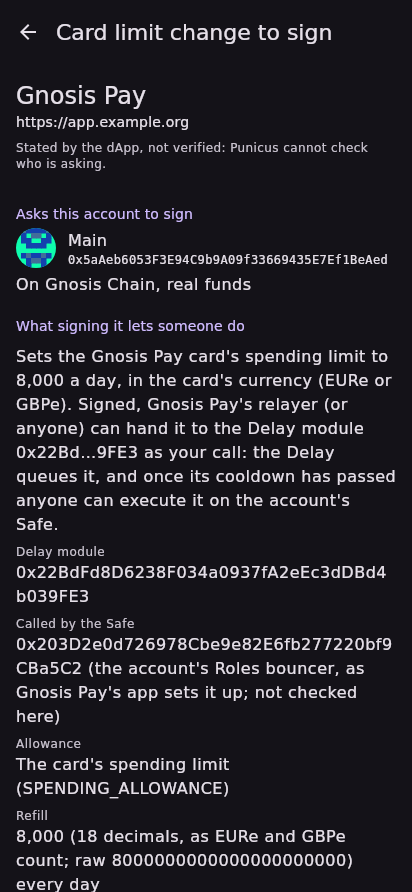
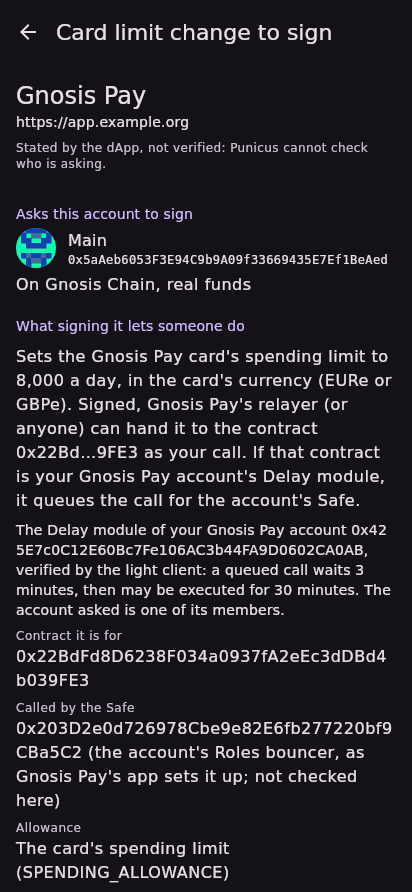
Screenshots: 1 added, 2 changed, 0 removed
Rendered by the Screenshots workflow from a125217e675adffcad88f89c9a7d9c25a4fbb8ea. Every other screen draws the same pixels.

Renderer: ubuntu26 20261122.9.1, openjdk version "21.0.13.1" 2026-11-17 LTS

Changed region(s): [[0.0291, 0.454, 0.9612, 1.0]]

diff --git a/docs/screenshots/index.html b/docs/screenshots/index.html
@@ -323,7 +323,7 @@ figcaption { font: .75rem/1.3 monospace; text-align: center; word-break: break-w
 </div>
 </section>
 <section id="dapp-request">
-<h2>dApp signing request <small>dapp-request/ · 42 states</small></h2>
+<h2>dApp signing request <small>dapp-request/ · 43 states</small></h2>
 <div class="shots">
 <figure style="width: 206px"><a href="dapp-request/sign-in.png"><img src="dapp-request/sign-in.png" loading="lazy" alt="sign-in"></a><figcaption>sign-in</figcaption></figure>
 <figure style="width: 206px"><a href="dapp-request/sign-in-dark.png"><img src="dapp-request/sign-in-dark.png" loading="lazy" alt="sign-in-dark"></a><figcaption>sign-in-dark</figcaption></figure>
@@ -354,6 +354,7 @@ figcaption { font: .75rem/1.3 monospace; text-align: center; word-break: break-w
 <figure style="width: 206px"><a href="dapp-request/per-app-linked.png"><img src="dapp-request/per-app-linked.png" loading="lazy" alt="per-app-linked"></a><figcaption>per-app-linked</figcaption></figure>
 <figure style="width: 206px"><a href="dapp-request/card-limit.png"><img src="dapp-request/card-limit.png" loading="lazy" alt="card-limit"></a><figcaption>card-limit</figcaption></figure>
 <figure style="width: 206px"><a href="dapp-request/card-limit-dark.png"><img src="dapp-request/card-limit-dark.png" loading="lazy" alt="card-limit-dark"></a><figcaption>card-limit-dark</figcaption></figure>
+<figure style="width: 206px"><a href="dapp-request/card-limit-not-accounts.png"><img src="dapp-request/card-limit-not-accounts.png" loading="lazy" alt="card-limit-not-accounts"></a><figcaption>card-limit-not-accounts</figcaption></figure>
 <figure style="width: 206px"><a href="dapp-request/safe-transfer.png"><img src="dapp-request/safe-transfer.png" loading="lazy" alt="safe-transfer"></a><figcaption>safe-transfer</figcaption></figure>
 <figure style="width: 206px"><a href="dapp-request/safe-transfer-dark.png"><img src="dapp-request/safe-transfer-dark.png" loading="lazy" alt="safe-transfer-dark"></a><figcaption>safe-transfer-dark</figcaption></figure>
 <figure style="width: 206px"><a href="dapp-request/safe-batch.png"><img src="dapp-request/safe-batch.png" loading="lazy" alt="safe-batch"></a><figcaption>safe-batch</figcaption></figure>

diff --git a/docs/screenshots/README.md b/docs/screenshots/README.md
@@ -22,7 +22,7 @@ If the folder grows too much, there are two levers, both the owner's. Deleting t
 | [Create Safe](#create-safe) | `create-safe/` | 19 |
 | [Display currency](#currency) | `currency/` | 4 |
 | [dApp connection request](#dapp-proposal) | `dapp-proposal/` | 28 |
-| [dApp signing request](#dapp-request) | `dapp-request/` | 42 |
+| [dApp signing request](#dapp-request) | `dapp-request/` | 43 |
 | [dApp transaction](#dapp-transaction) | `dapp-transaction/` | 46 |
 | [Debug](#debug) | `debug/` | 6 |
 | [Add account from the same phrase](#derive-account) | `derive-account/` | 10 |
@@ -389,7 +389,7 @@ If the folder grows too much, there are two levers, both the owner's. Deleting t
 <a name="dapp-request"></a>
 ## dApp signing request
 
-`dapp-request/`, 42 states: `sign-in`, `sign-in-dark`, `biometrics`, `other-site`, `message`, `hex`, `refused`, `wrong-password`, `signing`, `explaining`, `ended`, `loading`, `approval`, `approval-dark`, `unlimited`, `swap-order`, `not-decoded`, `typed-described`, `typed-described-dark`, `typed-describing`, `typed-contract-changed`, `other-network`, `real-funds`, `real-funds-dark`, `per-app`, `per-app-other-site`, `per-app-linked`, `card-limit`, `card-limit-dark`, `safe-transfer`, `safe-transfer-dark`, `safe-batch`, `safe-module`, `safe-message`, `session-grant`, `session-grant-dark`, `safe-nft`, `known-test`, `safe-cow-order`, `safe-not-owner`, `not-a-safe`, `safe-gas-terms`
+`dapp-request/`, 43 states: `sign-in`, `sign-in-dark`, `biometrics`, `other-site`, `message`, `hex`, `refused`, `wrong-password`, `signing`, `explaining`, `ended`, `loading`, `approval`, `approval-dark`, `unlimited`, `swap-order`, `not-decoded`, `typed-described`, `typed-described-dark`, `typed-describing`, `typed-contract-changed`, `other-network`, `real-funds`, `real-funds-dark`, `per-app`, `per-app-other-site`, `per-app-linked`, `card-limit`, `card-limit-dark`, `card-limit-not-accounts`, `safe-transfer`, `safe-transfer-dark`, `safe-batch`, `safe-module`, `safe-message`, `session-grant`, `session-grant-dark`, `safe-nft`, `known-test`, `safe-cow-order`, `safe-not-owner`, `not-a-safe`, `safe-gas-terms`
 
 <a href="dapp-request/sign-in.png"><img src="dapp-request/sign-in.png" width="206" alt="sign-in"></a>
 <a href="dapp-request/sign-in-dark.png"><img src="dapp-request/sign-in-dark.png" width="206" alt="sign-in-dark"></a>
@@ -420,6 +420,7 @@ If the folder grows too much, there are two levers, both the owner's. Deleting t
 <a href="dapp-request/per-app-linked.png"><img src="dapp-request/per-app-linked.png" width="206" alt="per-app-linked"></a>
 <a href="dapp-request/card-limit.png"><img src="dapp-request/card-limit.png" width="206" alt="card-limit"></a>
 <a href="dapp-request/card-limit-dark.png"><img src="dapp-request/card-limit-dark.png" width="206" alt="card-limit-dark"></a>
+<a href="dapp-request/card-limit-not-accounts.png"><img src="dapp-request/card-limit-not-accounts.png" width="206" alt="card-limit-not-accounts"></a>
 <a href="dapp-request/safe-transfer.png"><img src="dapp-request/safe-transfer.png" width="206" alt="safe-transfer"></a>
 <a href="dapp-request/safe-transfer-dark.png"><img src="dapp-request/safe-transfer-dark.png" width="206" alt="safe-transfer-dark"></a>
 <a href="dapp-request/safe-batch.png"><img src="dapp-request/safe-batch.png" width="206" alt="safe-batch"></a>
